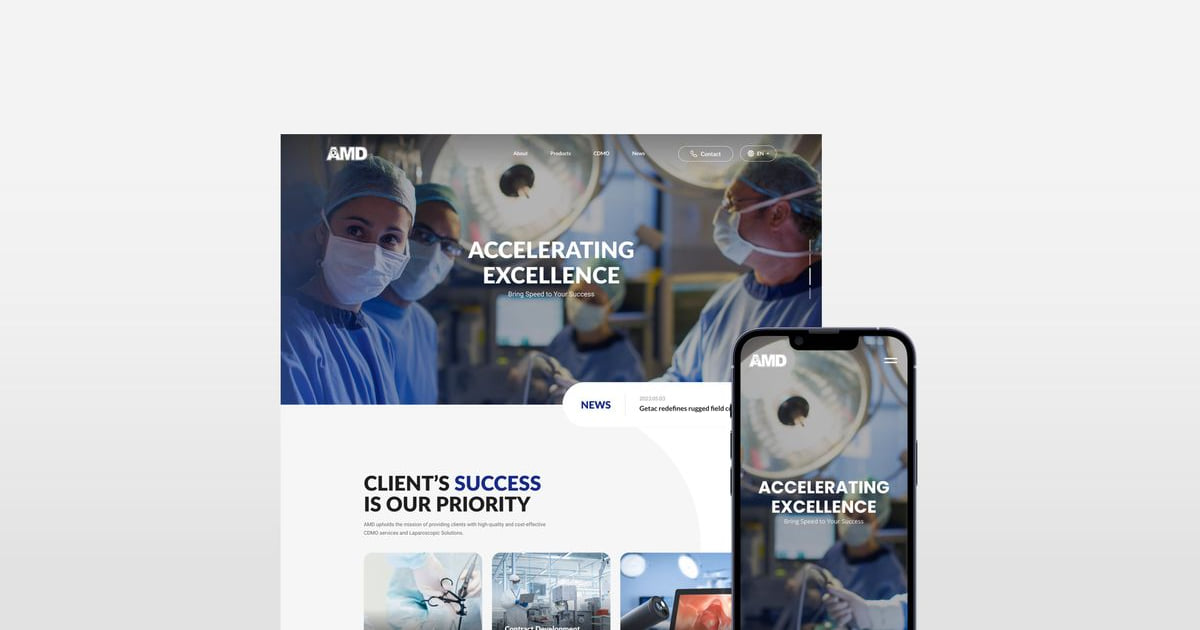
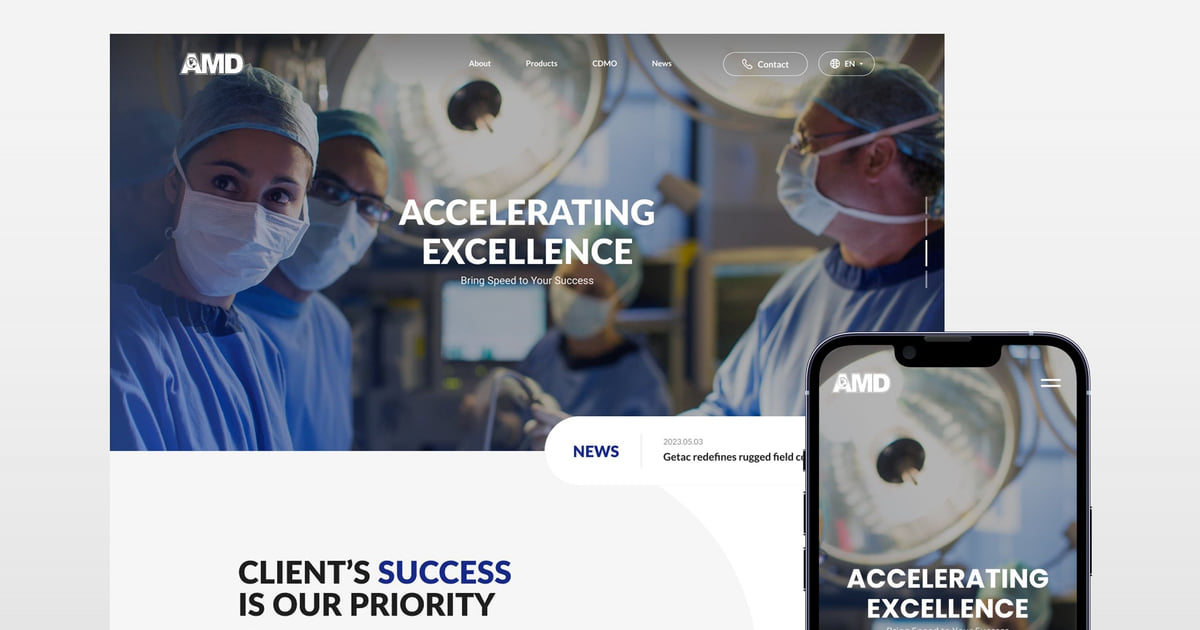
assets: tighter case share crops (V2; HUIFA V1)

diff --git a/docs/specs/share-preview.md b/docs/specs/share-preview.md
@@ -13,7 +13,14 @@ All images are exactly **1200 × 630** (1.91 : 1).
 | `/`, `/resume/`, `/404/` | `home.v1.png` | Figma `718:1570` (PO design), 1× render | `Syuan Ci 周泫淇 — 介面設計・互動設計・動態設計・原型設計` |
 | `/work/<slug>/` (7 pages) | `<slug>.v1.jpg` | the case hero showcase `src/assets/projects/<slug>/hero-showcase.jpg` | `<project.data.name> 案例主視覺` (e.g. `88Win 案例主視覺`) |
 
-Case images, PO option A (2026-11-06): the full hero showcase is scaled to 1200 px wide (1200 × 513) and placed at the **bottom** of the frame. The top 117 px are filled with `#f3f3f3`, which is the hero's own top-edge colour on all 7 heroes (measured: every pixel of row 0 is `rgb(243, 243, 243)`). The bottom edge is not padded, because the devices run into it, as they do on the site. JPEG q85 4:4:4 mozjpeg, 57–108 KB.
+Case images (PO, 2026-11-06): a crop of the hero showcase around its device group, so the devices fill most of the card.
+
+- **Device group box.** Measured in the 3840 × 1640 source as the pixels that differ from the background by more than 12. Most heroes: x 896–2934, top y 52–54. HUIFA: x 484–3356, top y 190. The devices run into the bottom edge.
+- **Six heroes, variant "V2".** The crop's bottom edge cuts 22 % of the device group's height off the bottom. Above the devices there are 70 source px of background. Devices ≈ 980 px wide in the 1200 px card.
+- **HUIFA, variant "V1".** No bottom cut, because its landscape devices are width-limited to 90 % of the card (1080 px).
+- **Horizontal position.** The crop is centred on the device group.
+- **Missing background.** Any area above the source is filled with `#f3f3f3`, the heroes' own top-edge colour (every pixel of row 0 is `rgb(243, 243, 243)`).
+- **Encoding.** JPEG q85 4:4:4 mozjpeg, 94–163 KB.
 
 **Versioned names:** platforms cache an image by its URL for days to weeks. A replaced image gets the next name (`home.v2.png`), never the same name (ARCHITECTURE §9.2 rule).
 
